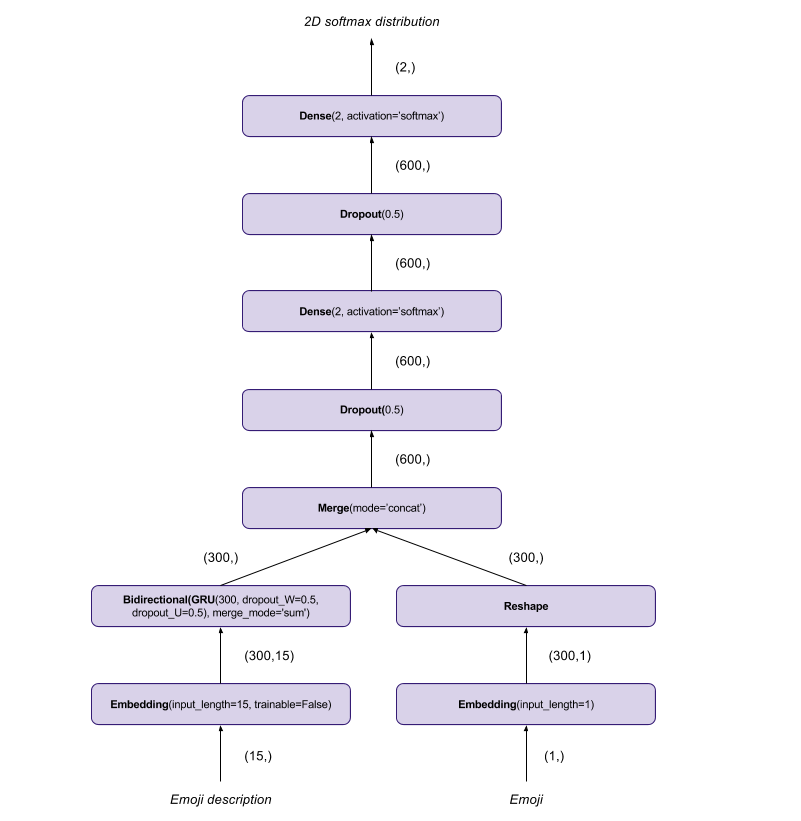
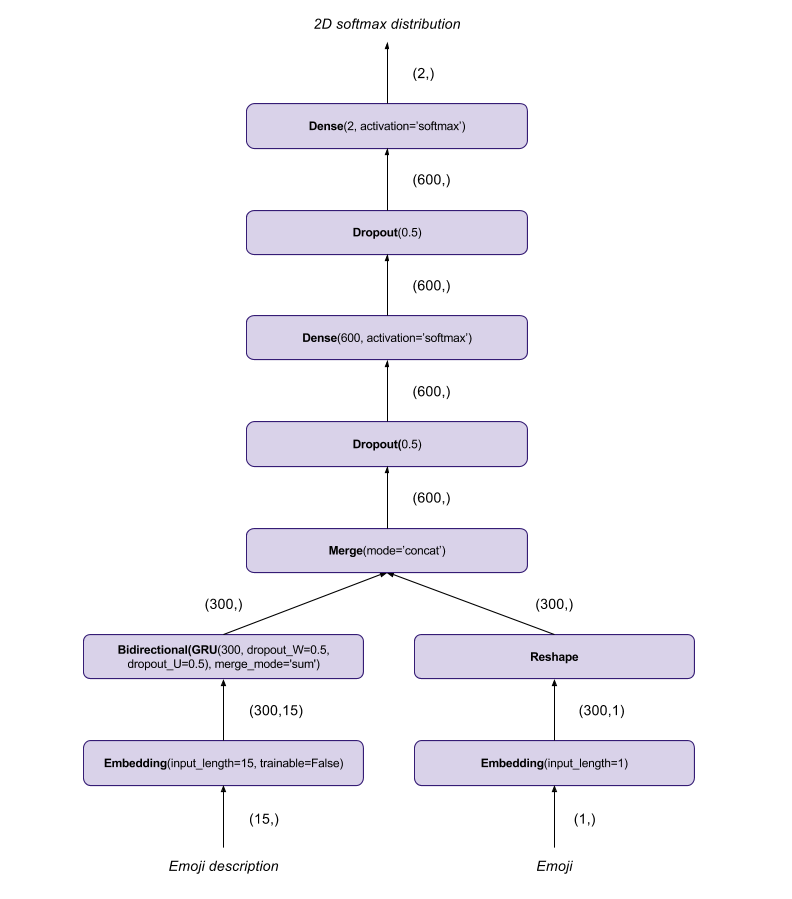
Fixed architecture diagram typo, updated README and visualization

Changed region(s): [[0.0909, 0.0609, 0.8788, 1.0], [0.3636, 0.0, 0.5758, 0.0609], [0.6364, 0.9135, 0.7273, 1.0]]

diff --git a/README.md b/README.md
@@ -10,6 +10,7 @@ A Jupyter notebook that implements an approach to generating embeddings for Unic
 
 * numpy 1.11.1
 * pandas 0.18.1
+* matplotlib 1.5.3
 * Keras 1.1.2
 * scikit-learn 0.17.1
 * h5py 2.6.0
@@ -27,7 +28,7 @@ The model architecture is shown below:
 
 ![[Keras architecture for Unicode emoji embedding generation]](emoji_emb_arch.png)
 
-This architecture takes a good deal of inspiration from the emerging architectural patterns in deep learning for natural language inference, e.g. as described in [[4]](https://arxiv.org/abs/1607.04853v2) and [[5]](https://explosion.ai/blog/deep-learning-formula-nlp). The motivation for the differences is that we hope to exploit these architectural patterns to create embeddings for terms from controlled vocabularies, where descriptions will be longer than those associated with Unicode emoji.
+This architecture takes a good deal of inspiration from the emerging architectural patterns in deep learning for natural language inference, e.g. as described in [[4]](https://arxiv.org/abs/1607.04853v2) and [[5]](https://explosion.ai/blog/deep-learning-formula-nlp). The motivation for the differences is that we hope to exploit these architectural patterns to create embeddings for terms from controlled vocabularies, where descriptions will be longer than those associated with Unicode emoji. The downside is the additional time taken in training relative to the fast implementation in [[1]](https://arxiv.org/abs/1609.08359).
 
 ## Results
 
